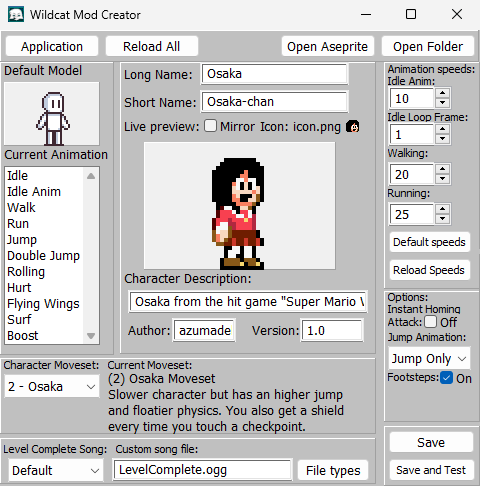
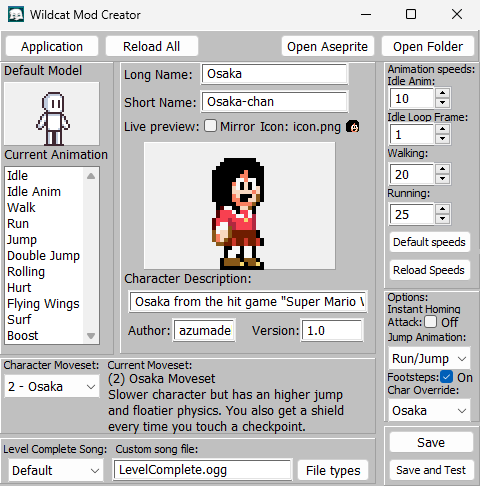
updated screenshots

Changed region(s): [[0.8125, 0.7099, 1.0, 0.8951], [0.9062, 0.6481, 0.9688, 0.679]]

diff --git a/others/modmanual/modcreatorscreen.html b/others/modmanual/modcreatorscreen.html
@@ -23,6 +23,8 @@
         <img><b>Top Bar</b><br>
         <img src="img/modscreen_img1.png" class="cimg"><br>
             <li>Application</li>
+            <ul>Opens the documentation (this) in your default browser.</ul>
+            <ul><li>Documentation</li></ul>
             <ul><li>Exit to main screen</li></ul>
             <ul>Go back to the main screen of the mod creator.</ul>
             <ul><li>Close App</li></ul>
@@ -110,6 +112,11 @@ Pressing the homing attack button while no enemy is targeted will perform an air
                 <strong>Jump Only: </strong>Will always play the jump animation if you jump.</ul></ul>
             <ul><li>Footsteps</li></ul>
             <ul><ul>Toggle for the footsteps sounds when running.</ul></ul>
+            <ul><li>Char Override</li></ul>
+            <ul><ul>Lets you choose the character your mod will replace for in-game events.
+                <br> <strong>Options:</strong> None, Tomo, Osaka, Chiyo, Yukari, Nyamo, Sakaki, Yomi, Kagura, Kaori and Chihiro.<br>
+                <br>For Example, if you set the value to "Sakaki" it will make Sakaki not appear in the hubworld, and play the story as if you were playing as vanilla Sakaki, that way you avoid having duplicates.</ul>
+            </ul>
         </div><br>
         
         <div class="box">
@@ -119,8 +126,8 @@ Pressing the homing attack button while no enemy is targeted will perform an air
             
             <li>Level Complete Song</li>
             <ul>Lets you choose between the default music or your custom file.<br>
-            <strong>Default: </strong> Your selected moveset's level complete song<br>
-                (Ex: If the current moveset is set to Kagura's, then your level complete song will be her song.)<br>
+            <strong>Default: </strong> Your selected character override's level complete song<br>
+                (Ex: If the Character Override is set to Kagura, then your level complete song will be her song.)<br>
             <Strong>Custom: </Strong>Will play the song you put in the "Custom Song file" input box.
             </ul>
         <li>File types button</li>
